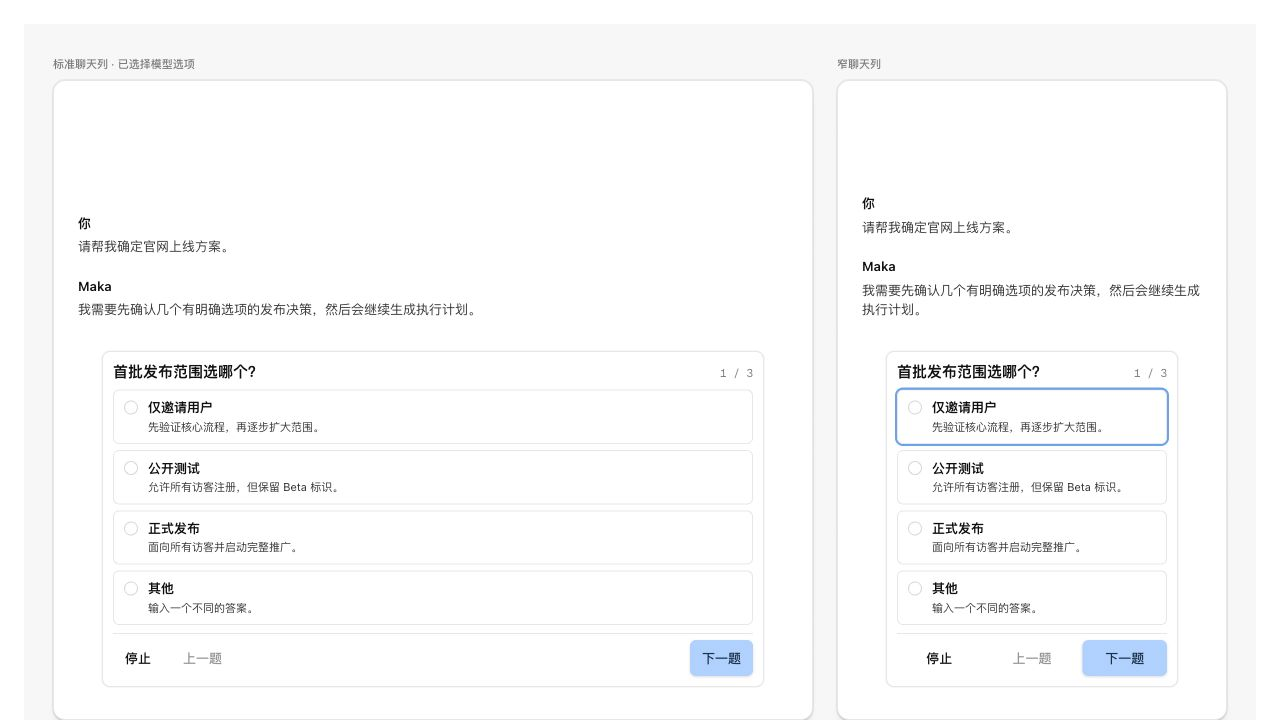
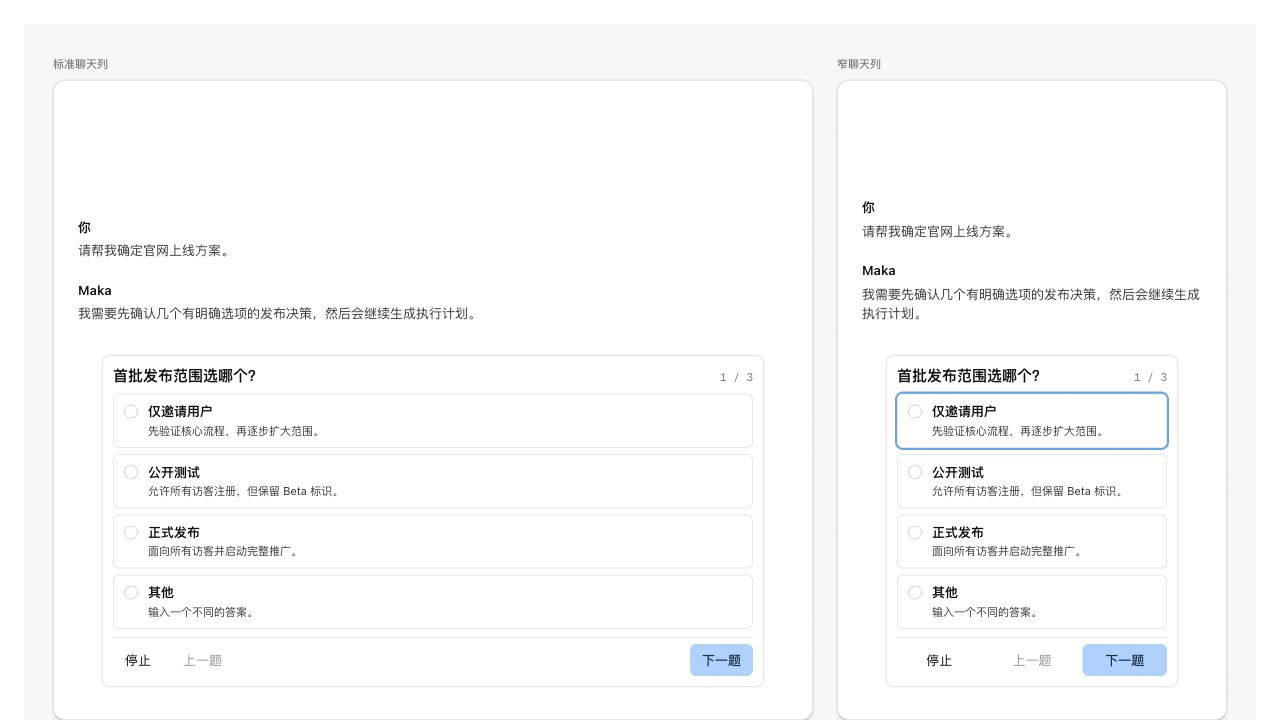
docs(desktop): align AskUserQuestion preview

diff --git a/apps/desktop/stories/ask-user-question.stories.tsx b/apps/desktop/stories/ask-user-question.stories.tsx
@@ -57,7 +57,7 @@ function PreviewColumn(props: {
 export const StandardAndNarrow: Story = {
   render: () => (
     <main className="maka-question-review-board">
-      <PreviewColumn title="标准聊天列 · 已选择模型选项" width={760} />
+      <PreviewColumn title="标准聊天列" width={760} />
       <PreviewColumn title="窄聊天列" width={390} />
     </main>
   ),
